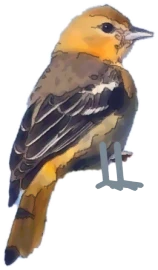
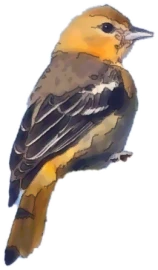
Oriole : retrait du dessin des pattes
Claude-Session: https://claude.ai/code/session_015oqaBicp1kLkNTJ3ZtXCQe

Changed region(s): [[0.6076, 0.5037, 0.9114, 0.7111]]

diff --git a/css/appli.css b/css/appli.css
@@ -38,7 +38,7 @@ header{display:flex;gap:1rem;align-items:flex-start;padding:2.25rem 0 1.5rem}
 .pp-src a{color:inherit}
 .qr{display:flex;flex-direction:row-reverse;justify-content:flex-end;gap:1.1rem;align-items:center;margin-top:1.5rem}
 .qr-box{flex:0 0 auto;width:118px;height:118px;background:#fff;border-radius:10px;padding:0;overflow:visible;border:1px solid var(--line);position:relative}
-.qr-box .oriole{position:absolute;left:-5px;top:-48px;width:42px;height:71px;pointer-events:none;filter:drop-shadow(0 0 .6px rgba(28,40,46,.95)) drop-shadow(0 0 .6px rgba(28,40,46,.95))}
+.qr-box .oriole{position:absolute;left:-5px;top:-41px;width:42px;height:71px;pointer-events:none;filter:drop-shadow(0 0 .6px rgba(28,40,46,.95)) drop-shadow(0 0 .6px rgba(28,40,46,.95))}
 @media (prefers-color-scheme: dark){ :root:not([data-theme="light"]) .qr-box .oriole{filter:none} }
 :root[data-theme="dark"] .qr-box .oriole{filter:none}
 .qr-box .fern{position:absolute;right:-9px;bottom:-12px;font-size:1.5rem;line-height:1;pointer-events:none;filter:drop-shadow(0 1px 1px rgba(0,0,0,.25))}
